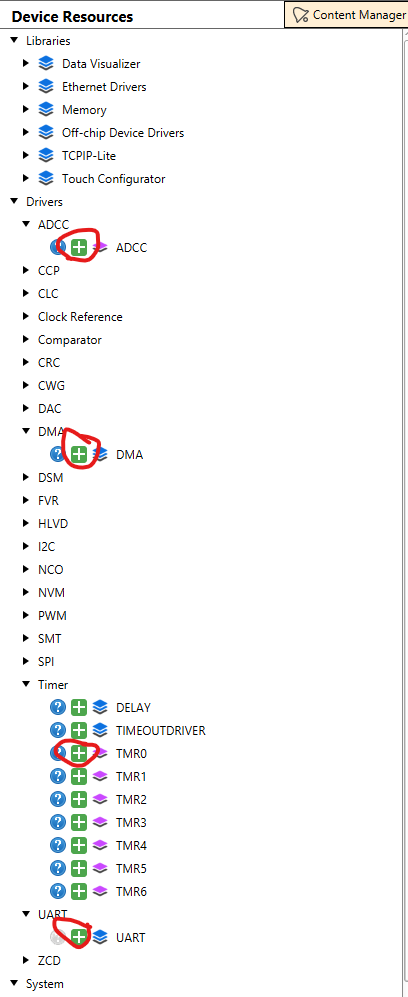
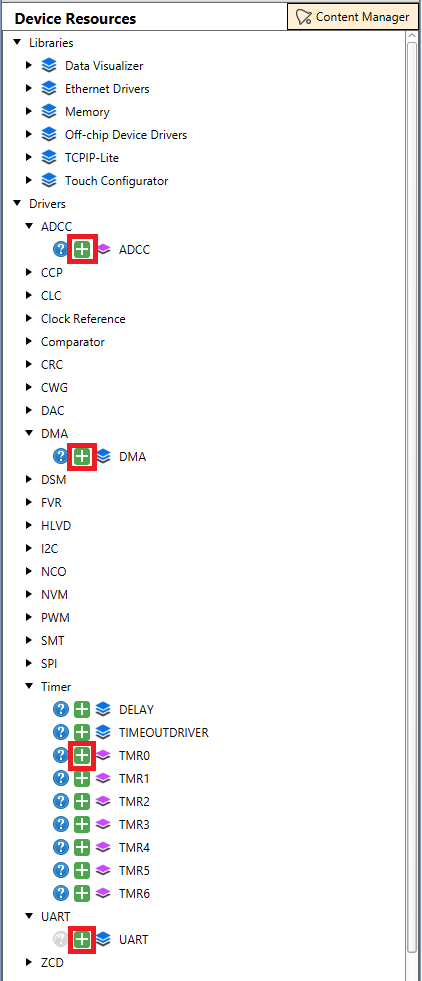
MPAE-16465 update Readme.md from Tech writer edits and improved images suggested by J. Layton

Changed region(s): [[0.0, 0.0, 1.0, 1.0]]

diff --git a/README.md b/README.md
@@ -2,8 +2,8 @@
 
 
 
-# Direct Memory Access on PIC MCUs [Part 1]:
-This is **part 1 of 2** of an example showing how to set up [Direct Memory Access (DMA)](https://www.microchip.com/design-centers/8-bit/peripherals/core-independent/direct-memory-access?utm_campaign=PIC18FQ43&utm_source=GitHub&utm_medium=embeddedLink&utm_term=&utm_content=pic18f57q43-dma-adc-to-uart-part1-MMTCha) using the [Microchip Code Configurator (MCC)](https://www.microchip.com/Developmenttools/ProductDetails/DM164150?utm_campaign=PIC18FQ43&utm_source=GitHub&utm_medium=embeddedLink&utm_term=&utm_content=pic18f57q43-dma-adc-to-uart-part1-MMTCha) on the [PIC18F57Q43 Curiosity Nano](https://www.microchip.com/design-centers/8-bit/pic-mcus/device-selection/pic18f-q10-product-family?utm_campaign=PIC18FQ43&utm_source=GitHub&utm_medium=embeddedLink&utm_term=&utm_content=pic18f57q43-dma-adc-to-uart-part1-MMTCha) to transfer an Analog to Digital (ADC) conversion to a UART TX buffer with **zero lines of code and zero CPU utilization** using DMA.
+# Direct Memory Access (DMA) on PIC MCUs [Part one]:
+This is the first part an example showing how to set up [Direct Memory Access (DMA)](https://www.microchip.com/design-centers/8-bit/peripherals/core-independent/direct-memory-access?utm_campaign=PIC18FQ43&utm_source=GitHub&utm_medium=embeddedLink&utm_term=&utm_content=pic18f57q43-dma-adc-to-uart-part1-MMTCha) using the [Microchip Code Configurator (MCC)](https://www.microchip.com/Developmenttools/ProductDetails/DM164150?utm_campaign=PIC18FQ43&utm_source=GitHub&utm_medium=embeddedLink&utm_term=&utm_content=pic18f57q43-dma-adc-to-uart-part1-MMTCha) on the [PIC18F57Q43 Curiosity Nano](https://www.microchip.com/design-centers/8-bit/pic-mcus/device-selection/pic18f-q10-product-family?utm_campaign=PIC18FQ43&utm_source=GitHub&utm_medium=embeddedLink&utm_term=&utm_content=pic18f57q43-dma-adc-to-uart-part1-MMTCha) to transfer an Analog to Digital (ADC) conversion to a UART TX buffer with zero lines of code and zero CPU utilization using DMA.
 
 
 ![](images/part1-gif.gif)
@@ -24,7 +24,7 @@ This is **part 1 of 2** of an example showing how to set up [Direct Memory Acces
   - [Walkthrough](#walkthrough)
 
 
-This example is extendable to the entire PIC18 Q43 family, as well as other 8-bit PIC devices with the DMA feature (ex. PIC18F K42).
+This example is extendable to the entire PIC18 Q43 family, and other 8-bit PIC devices with the DMA feature, like PIC18F K42.
 
 The Timer (TMR0), Analog to Digital Converter with Computation (ADCC), and Universal Asynchronous Receiver Transmitter (UART3) and DMA on-chip peripherals are all used in this project (part1).
 
@@ -43,21 +43,20 @@ The Timer (TMR0), Analog to Digital Converter with Computation (ADCC), and Unive
   - [AN3398: Building Hardware State Machines with CIPs](https://www.microchip.com/00003398)
 
 ## Software Used
-All software used in this example is listed here:
 - [MPLAB® X IDE 6.15](https://www.microchip.com/mplab/mplab-x-ide?utm_campaign=PIC18FQ43&utm_source=GitHub&utm_medium=embeddedLink&utm_term=&utm_content=pic18f57q43-dma-adc-to-uart-part1-MMTCha) or newer
 - [MPLAB® XC8 2.45](https://www.microchip.com/mplab/compilers?utm_campaign=PIC18FQ43&utm_source=GitHub&utm_medium=embeddedLink&utm_term=&utm_content=pic18f57q43-dma-adc-to-uart-part1-MMTCha) or newer
 - [MPLAB® Code Configurator (MCC) 5.5.7](https://www.microchip.com/mplab/mplab-code-configurator?utm_campaign=PIC18FQ43&utm_source=GitHub&utm_medium=embeddedLink&utm_term=&utm_content=pic18f57q43-dma-adc-to-uart-part1-MMTCha) or newer
-  - [MPLAB® Code Configurator (MCC) Device Libraries PIC10 / PIC12 / PIC16 / PIC18 MCUs (5.25.0)](https://www.microchip.com/mplab/mplab-code-configurator?utm_campaign=PIC18FQ43&utm_source=GitHub&utm_medium=embeddedLink&utm_term=&utm_content=pic18f57q43-dma-adc-to-uart-part1-MMTCha) or newer
+ - [MPLAB® Code Configurator (MCC) Device Libraries PIC10 / PIC12 / PIC16 / PIC18 MCUs (5.25.0)](https://www.microchip.com/mplab/mplab-code-configurator?utm_campaign=PIC18FQ43&utm_source=GitHub&utm_medium=embeddedLink&utm_term=&utm_content=pic18f57q43-dma-adc-to-uart-part1-MMTCha) or newer
 - [Microchip PIC18F-Q Series Device Support (1.21.411)](https://packs.download.microchip.com/?utm_campaign=PIC18FQ43&utm_source=GitHub&utm_medium=embeddedLink&utm_term=&utm_content=pic18f57q43-dma-adc-to-uart-part1-MMTCha) or newer
 
 ## Hardware Used
-- PIC18F57Q43 Curiosity Nano [(DM164150)](https://www.microchip.com/Developmenttools/ProductDetails/DM164150?utm_campaign=PIC18FQ43&utm_source=GitHub&utm_medium=embeddedLink&utm_term=&utm_content=pic18f57q43-dma-adc-to-uart-part1-MMTCha)
-  - NOTE: There is second one used in [**part 2**](https://github.com/microchip-pic-avr-examples/pic18f57q43-dma-uart-to-pwm-part2)
+- PIC18F57Q43 Curiosity Nano Evaluation Kit [(DM164150)](https://www.microchip.com/Developmenttools/ProductDetails/DM164150?utm_campaign=PIC18FQ43&utm_source=GitHub&utm_medium=embeddedLink&utm_term=&utm_content=pic18f57q43-dma-adc-to-uart-part1-MMTCha)
+  - NOTE: There is second Curiosity Nano Evaluation Kit used in [**part two**](https://github.com/microchip-pic-avr-examples/pic18f57q43-dma-uart-to-pwm-part2)
 - Potentiometer (x1)
-- **[Optional]** Curiosity Nano Base for Click boards™ [(AC164162)](https://www.microchip.com/Developmenttools/ProductDetails/AC164162?utm_campaign=PIC18FQ43&utm_source=GitHub&utm_medium=embeddedLink&utm_term=&utm_content=pic18f57q43-dma-adc-to-uart-part1-MMTCha) - this was only used in lieu of a breadboard.
+-  Curiosity Nano Base for Click boards™ [(AC164162)](https://www.microchip.com/Developmenttools/ProductDetails/AC164162?utm_campaign=PIC18FQ43&utm_source=GitHub&utm_medium=embeddedLink&utm_term=&utm_content=pic18f57q43-dma-adc-to-uart-part1-MMTCha) - **[Optional]** this was only used in lieu of a breadboard.
 
 ## Setup
-The hardware is setup as shown more closely [in this video](https://www.youtube.com/watch?v=Wz7gt11gpSw&t=1s). Below is a diagram where of the specific pins I used. You'll notice the Curiosity Nano Baseboard for clicks is missing from this diagram as they were really only used as breadboard-alternatives in this case.
+The hardware is setup as shown [in this video](https://www.youtube.com/watch?v=Wz7gt11gpSw&t=1s). All the specific pins are present in the diagram below. The Curiosity Nano Baseboard for clicks are no present in the diagram, since they were only used as breadboard-alternatives.
 
 ![](images/hardware_setup.jpg)
 
@@ -94,73 +93,73 @@ The goal here is to exemplify the usage of the GUI provided by MCC that will gen
 1. Open the MPLAB X IDE
 2. Create new project by clicking the icon: ![](images/new_project_icon.png)   
    1. Alternatively: file >> New Project
-3. In **Choose Project** window
+3. In the **Choose Project** window:
    1. Select **Microchip Embedded** category
    2. Select **Standalone Project**
-   3. Hit **Next>**
-4. In **Select Device** window
+   3. Click **Next>**
+4. In the **Select Device** window:
    1. Select **PIC18F57Q43** as your device
-   2. Pro-tip: quickly filter for devices by inputting last 3-4 characters of the device and selecting from the drop-down list (e.g. Q43).
-   3.  Hit **Next>**
-5.  In **Select Tool (Optional)** window
-    1.  If device is connected – select Microchip Kits -> PIC18F57Q43 Curiosity Nano (PKOB nano)
-    2.  If not, you can do this later when programming the device.
-    3.  Hit **Next>**
-6.  In **Select Compiler** window
+   2. Pro-tip: Input the last three or four characters of the device, then select the device from the drop-down list (e.g. Q43).
+   3.  Click **Next>**
+5.  In the **Select Tool** window (Optional): 
+    1.  If device is connected, select PIC18F57Q43 Curiosity Nano (PKOB nano)
+    2.  If not, The Curiosity Nano can be selected later on.
+    3.  Click **Next>**
+6.  In the **Select Compiler** window:
     1.  Select XC8 (v2.45)
-    2.  Hit **Finish**
+    2. Click **Finish**
 7.  Open MCC by clicking the icon in the toolbar ![](images/open_mcc_icon.png)
 
 ### Configure MCC
-1. In the project resources window open the dropdown box for **System** => Clock control tab
+1. In the project resources window: check the dropdown box for **System** =>  click clock control.
    
 ![](images/project_resources_clock_control.png)
 
-   1. In the clock control window, easy view tab set **Oscillator Select** to **HFINTOSC**
+   1. In the clock control window: go to the easy view tab, and set **Clock Settings** to **HFINTOSC**
 
 ![](images/clock_control.png)
 
-2. Under **Device Resources** in left-hand pane
+2. Under Device Resources in left-hand pane:
    1. Open the **Drivers** drop-down
    2. Click the green plus sign next to **ADCC**, **DMA**, **TMR0** and **UART3** peripherals to add them your project.
 
 
 ![](images/device_resources.png)
 
-   After adding drivers for ADCC, DMA1, TMR0, and UART3. The project resources window should look like below.
+   After adding drivers for ADCC, DMA1, TMR0, and UART3. The project resources window will look like below.
 
 ![](images/project_resources.png)
 
-3. In **TMR0** window/tab
+3. In the **TMR0** window:
    1. Select **FOSC/4** for **Clock Source**
    2. Set **Clock pre-scaler** to **1:64**
    3. Set **Requested Period** to **50 ms**
-   4. **What we just did** – configured the TMR0 to overflow every ~50ms. You can mess around with the clock source, system clock, and post/pre-scalars to change the % error or the range of acceptable inputs to for the timer period.
+   4. The **TMR0** was configured to overflow every ~50 ms. The user can reconfigure the clock source, system clock, and pre/post-scalars to change the error rate or the range of acceptable inputs for the timer period.
 
 
 ![](images/tmr0_easyview.png)
 
-4. In **ADCC** window/tab
+4. In the **ADCC** window:
    1. Set **Clock Source** to **ADCRC**
    2. Set **Auto-Conversion Trigger** to **TMR0**
-   3. **What we just did** – changed the clock source to the internal ADC RC oscillator circuit (i.e. FRC), and set up the ADC to get a conversion every time a rising edge is detected from TMR0.
+   3. The default setting is changed for the clock source to the internal ADC RC oscillator circuit (i.e. FRC), and set up the ADC to get a conversion every time a rising edge is detected from TMR0.
 
 
 ![](images/adcc_setup.png)
 
-5. In the **UART** window/tab
-   1. Set **Baud Rate** to **9600**
+5. In the **UART** window:
+   1. Set Baud Rate to 9600.
 
 ![](images/uart3_setup.png)
 
-6. In the **Pin Manager: Grid View** window
+6. In the Pin Manager: Grid View window:
    1. UART3 TX3 --> A3
-   2. UAR3 RX3 --> A4 (not needed necessarily since we are just transmitting)
+   2. UAR3 RX3 --> A4 (not required for transmitting)
    3. ADCC ANx --> A0
 
 ![](images/pin_grid_view.png)
 
-7. In the **DMA Manager** window<br>
+7. In the **DMA Manager** window:<br>
 
 ![](images/dma1_easyview.png) <br>
 
@@ -170,20 +169,19 @@ The goal here is to exemplify the usage of the GUI provided by MCC that will gen
 | Dst | UART3  | SFR    | U3TXB  | -       | -       | -       | unchanged | 1            | U3TX          | None          |
 
 1. Enable **DMA Channel1**
-   1. What we just did:
-      1. **ADCC** is the **source module** of the DMA channel
-      2. **ADRESL** is the **SFR region** that we want data to be sourced from
-      3. **Mode** must be **incremented** so that we can get the value from ADRESH, which is directly above ADRESL according to the SFR Memory Map.
-      4. **Message size** is basically **how many bytes** are coming from the source module. The ADC result register is a *16-bit register*, so the **message size is 2-bytes**.
-      5. Similarly, the UART TX Buffer is 1-byte, so we need to indicate that it can only handle one byte at a time. (i.e. message size = 1)
-      6. Set the DMA **start trigger** to fire every time TX Buffer is empty (**U3TXB**). At this point you might wonder – why don’t I just set the trigger for every time there is an ADC conversion? You are certainly given the flexibility to do so by setting Start Trigger to AD. I encourage you to try and see what happens.
-         1. **Spoiler Alert:** In many cases you will find that there is garbage data being transmitted from the UART. The reason for this is that depending on the relative speed of the UART, the DMA might be overwriting the buffer before the bits are shifting out. The DMA has no knowledge of this information, it’s simply a messenger.
-2. Hit **Generate Project** and
-3.  Hit **Program the device**![](images/program-device-icon.png)
+   1. **ADCC** is the **source module** of the DMA channel
+   2. **ADRESL** is the **SFR region** that we want data to be sourced from
+   3. **Mode** must be **incremented** to get the value from ADRESH, which is directly above ADRESL according to the SFR Memory Map.
+   4. **Message size** is basically **how many bytes** are coming from the source module. The ADC result register is a *16-bit register*, so the **message size is 2-bytes**.
+   5. Similarly, the UART TX Buffer is 1-byte, so we need to indicate that it can only handle one byte at a time. (i.e. message size = 1)
+   6. Set the DMA **start trigger** to fire every time TX Buffer is empty (**U3TXB**). At this point you might wonder – why don’t I just set the trigger for every time there is an ADC conversion? You are certainly given the flexibility to do so by setting Start Trigger to AD. I encourage you to try and see what happens.
+      1. **Note!** In many cases you will find that there is garbage data being transmitted from the UART. The reason for this is that depending on the relative speed of the UART, the DMA might be overwriting the buffer before the bits are shifting out. The DMA has no knowledge of this information, it’s a messenger.
+2. Click **Generate Project** and
+3. Click **Program the device**![](images/program-device-icon.png)
 
 ## Conclusion:
 
-You have finished part 1, now you can either check out the results by using a logic analyzer, oscilloscope, or even a serial terminal like the Data Visualizer plugin or standalone application. Next, [**check out part 2**](https://github.com/microchip-pic-avr-examples/pic18f57q43-dma-uart-to-pwm-part2) to complete the application.
+After finishing part 1, the user can either check out the results by using a logic analyzer, oscilloscope, or even a serial terminal like the Data Visualizer plugin or standalone application. Next, [**check out part 2**](https://github.com/microchip-pic-avr-examples/pic18f57q43-dma-uart-to-pwm-part2) to complete the application.
 
 ![](images\system-architecture.JPG)
 
